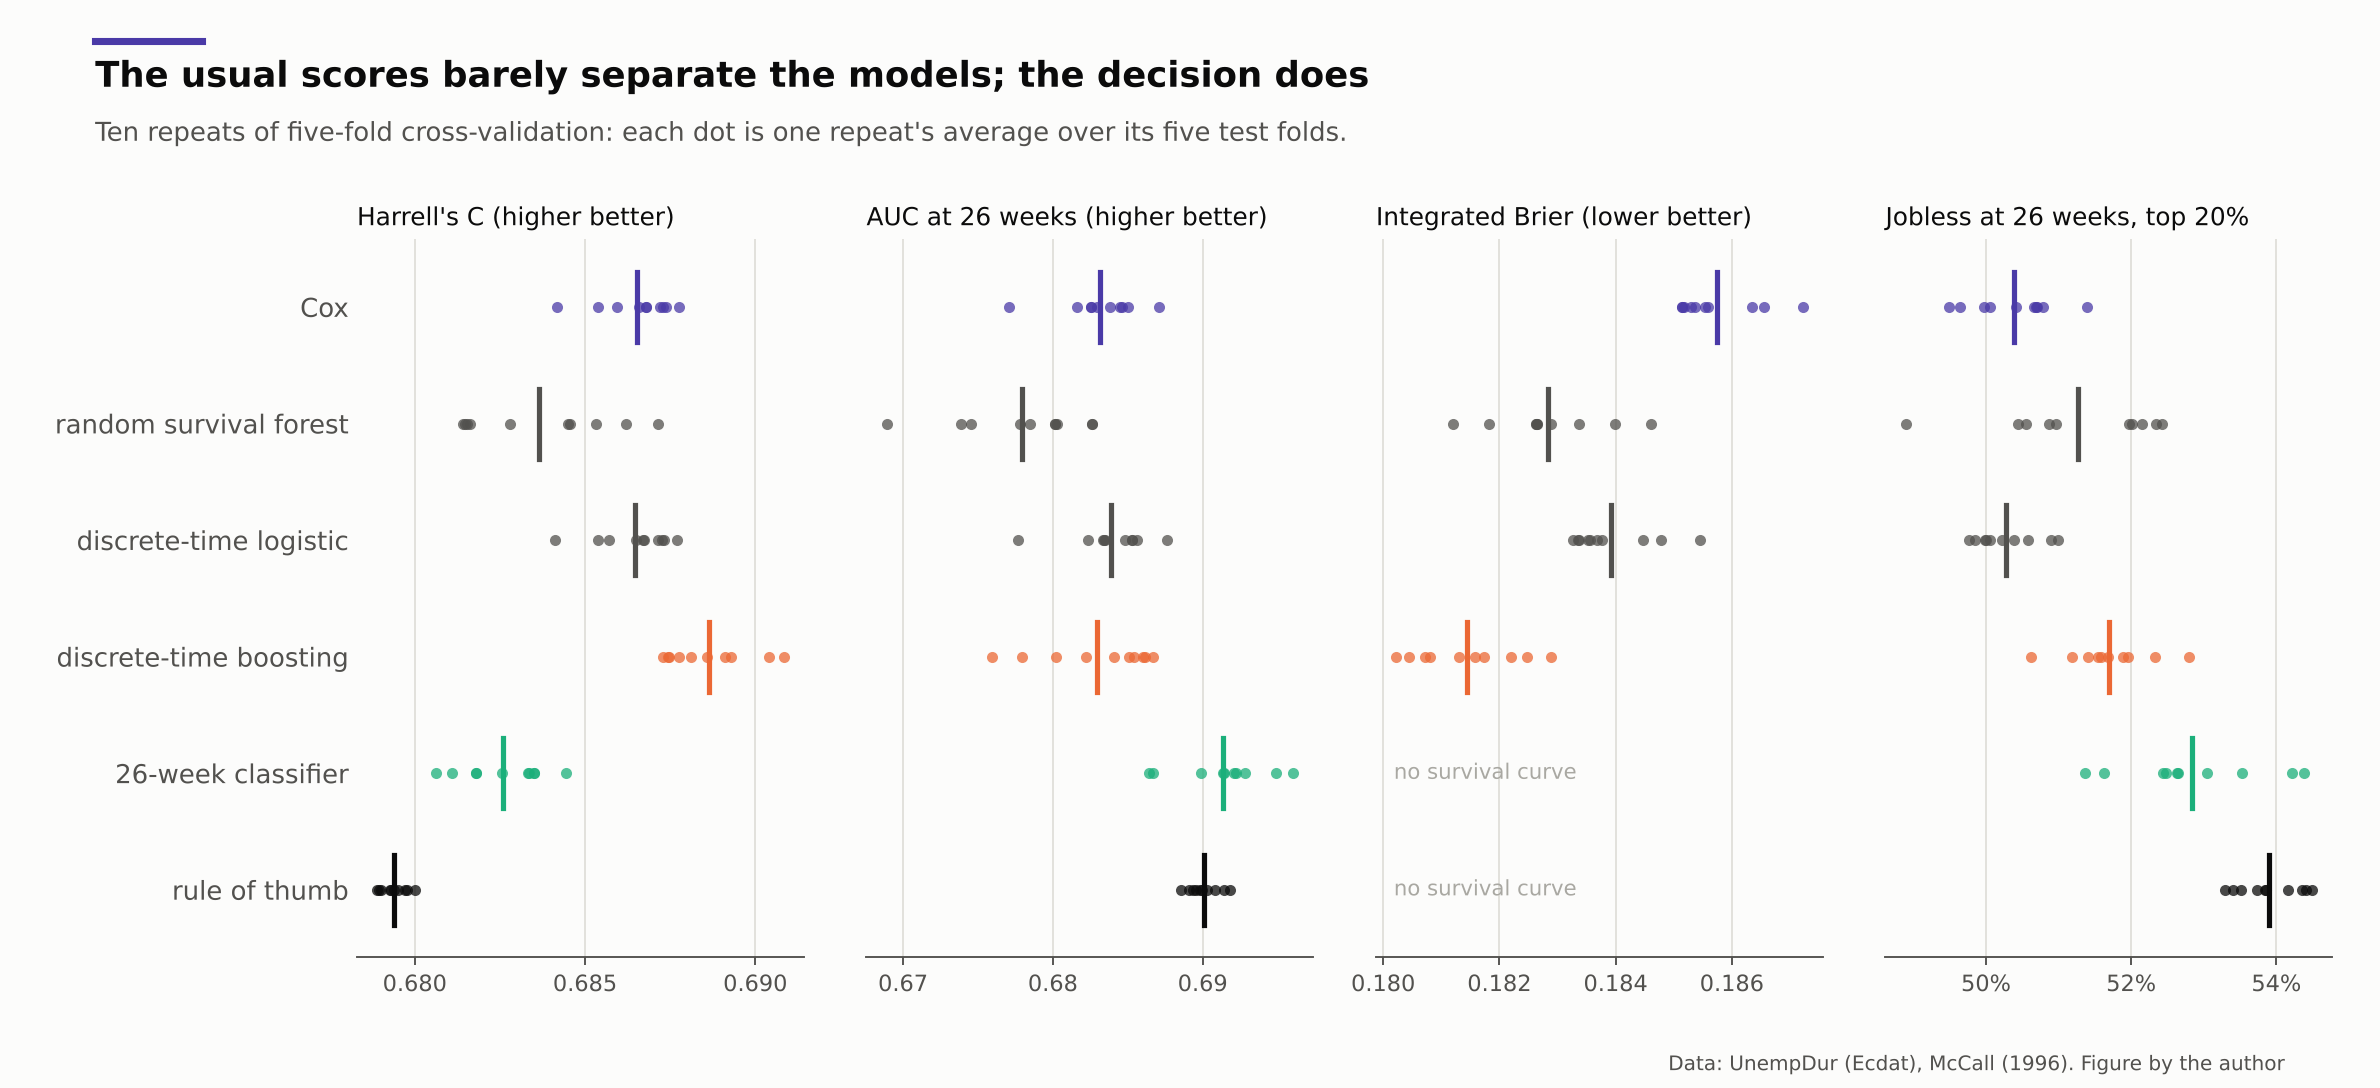
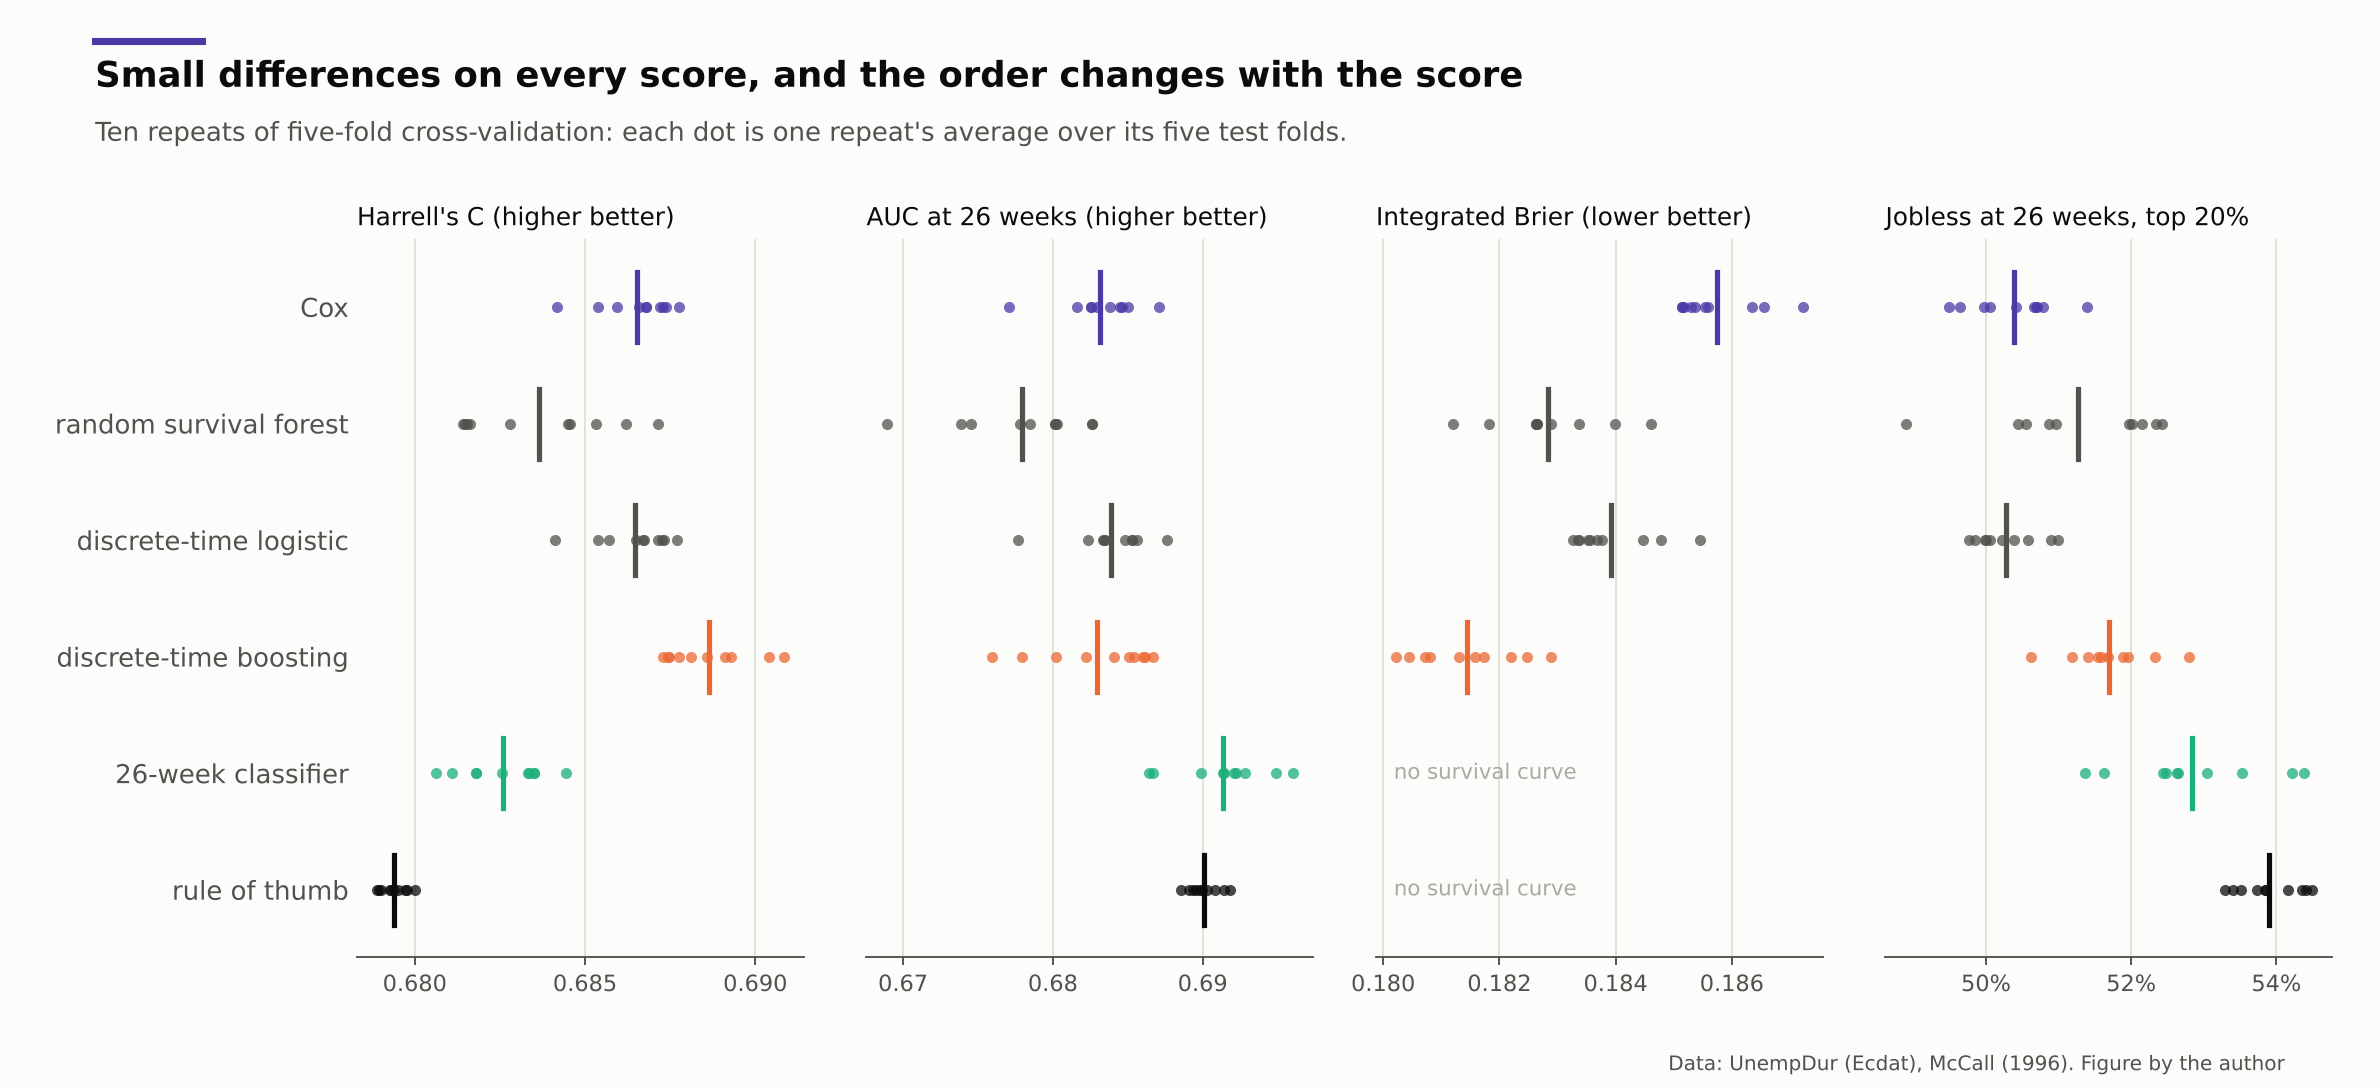
Part 6: fold-level comparison, clearer figure labels

Changed region(s): [[0.0311, 0.0312, 0.6529, 0.0938]]

diff --git a/survival-analysis-for-data-scientists/part6/figures.py b/survival-analysis-for-data-scientists/part6/figures.py
@@ -87,7 +87,7 @@ def figure_data(data):
     axes[1].yaxis.set_major_formatter(PERCENT)
     axes[1].set_xlabel("Weeks since losing the job (end of each two-week interval)")
     axes[1].set_title("Share re-employed in each two-week interval", loc="left", fontsize=11.5, color=INK)
-    axes[1].text(8, 0.27, "no UI claim: high re-employment\nrates in the first six weeks", color=ORANGE,
+    axes[1].text(8, 0.27, "no UI claim: re-employment rates\nhighest in the first six weeks", color=ORANGE,
                  fontsize=10, va="top")
     axes[1].text(20, 0.16, "after about 18 weeks the\ntwo groups look alike", color=INK_2, fontsize=10)
     credit(fig)
@@ -111,7 +111,7 @@ def figure_scores(results):
                "discrete-time boosting": ORANGE, "26-week classifier": AQUA, "rule of thumb": INK}
     fig, axes = plt.subplots(1, 4, figsize=(14, 6.4), sharey=True)
     fig.subplots_adjust(left=0.15, right=0.98, top=0.78, bottom=0.12, wspace=0.14)
-    header(fig, "The usual scores barely separate the models; the decision does",
+    header(fig, "Small differences on every score, and the order changes with the score",
            "Ten repeats of five-fold cross-validation: each dot is one repeat's average over its five test folds.")
     ypos = {m: len(order) - 1 - i for i, m in enumerate(order)}
     for ax, (metric, title) in zip(axes, panels):
@@ -200,7 +200,7 @@ def figure_targeting(data, pooled):
     ax.text(0.205, 0.35, "capacity: one\nworker in five", color=INK_2, fontsize=10, va="bottom")
     key = (("rule of thumb:\nUI claimants, oldest first", INK), ("26-week classifier", AQUA),
            ("discrete-time boosting", ORANGE), ("Cox", VIOLET),
-           ("random survival forest and\ndiscrete-time logistic (grey)", INK_2))
+           ("random survival forest (dotted)\nand discrete-time logistic (dashed)", INK_2))
     y = 0.60
     for text, colour in key:
         ax.text(0.61, y, text, color=colour, fontsize=10, va="top")

diff --git a/survival-analysis-for-data-scientists/part6/benchmark.py b/survival-analysis-for-data-scientists/part6/benchmark.py
@@ -363,6 +363,9 @@ def main():
     r, c = by_rep.loc["rule of thumb"]["still jobless, top 20%"], by_rep.loc["26-week classifier"]["still jobless, top 20%"]
     print(f"Rule of thumb against 26-week classifier, top 20%: difference {(r - c).mean():+.4f} "
           f"(rule better in {int(np.sum(r > c))} of {N_REPEATS} repeats)")
+    wide = results.pivot_table(index=["repeat", "fold"], columns="model", values="still jobless, top 20%")
+    print(f"Test folds (of {len(wide)}) in which the top-20% share is higher than Cox's: " + ", ".join(
+        f"{m} {int(np.sum(wide[m] > wide['Cox']))}" for m in list(MODELS)[1:] + list(EXTRA)))
     fold = results[results.model == "Cox"]["still jobless, top 20%"]
     print(f"Spread of the top-20% share across the 50 test folds, Cox: standard deviation {fold.std():.4f}")
     print("Share of all workers still jobless at 26 weeks who are in the selected 20% (capture): " + ", ".join(

diff --git a/survival-analysis-for-data-scientists/README.md b/survival-analysis-for-data-scientists/README.md
@@ -83,7 +83,7 @@ To reproduce Part 6 (downloads `UnempDur.csv` to `part6/data/` on first use and 
 
 ```bash
 cd part6
-python benchmark.py > output.txt   # about 2.5 minutes
+python benchmark.py > output.txt   # a little over 2 minutes
 python figures.py                  # writes four PNG files to figures/, about 2 minutes
 ```
 
